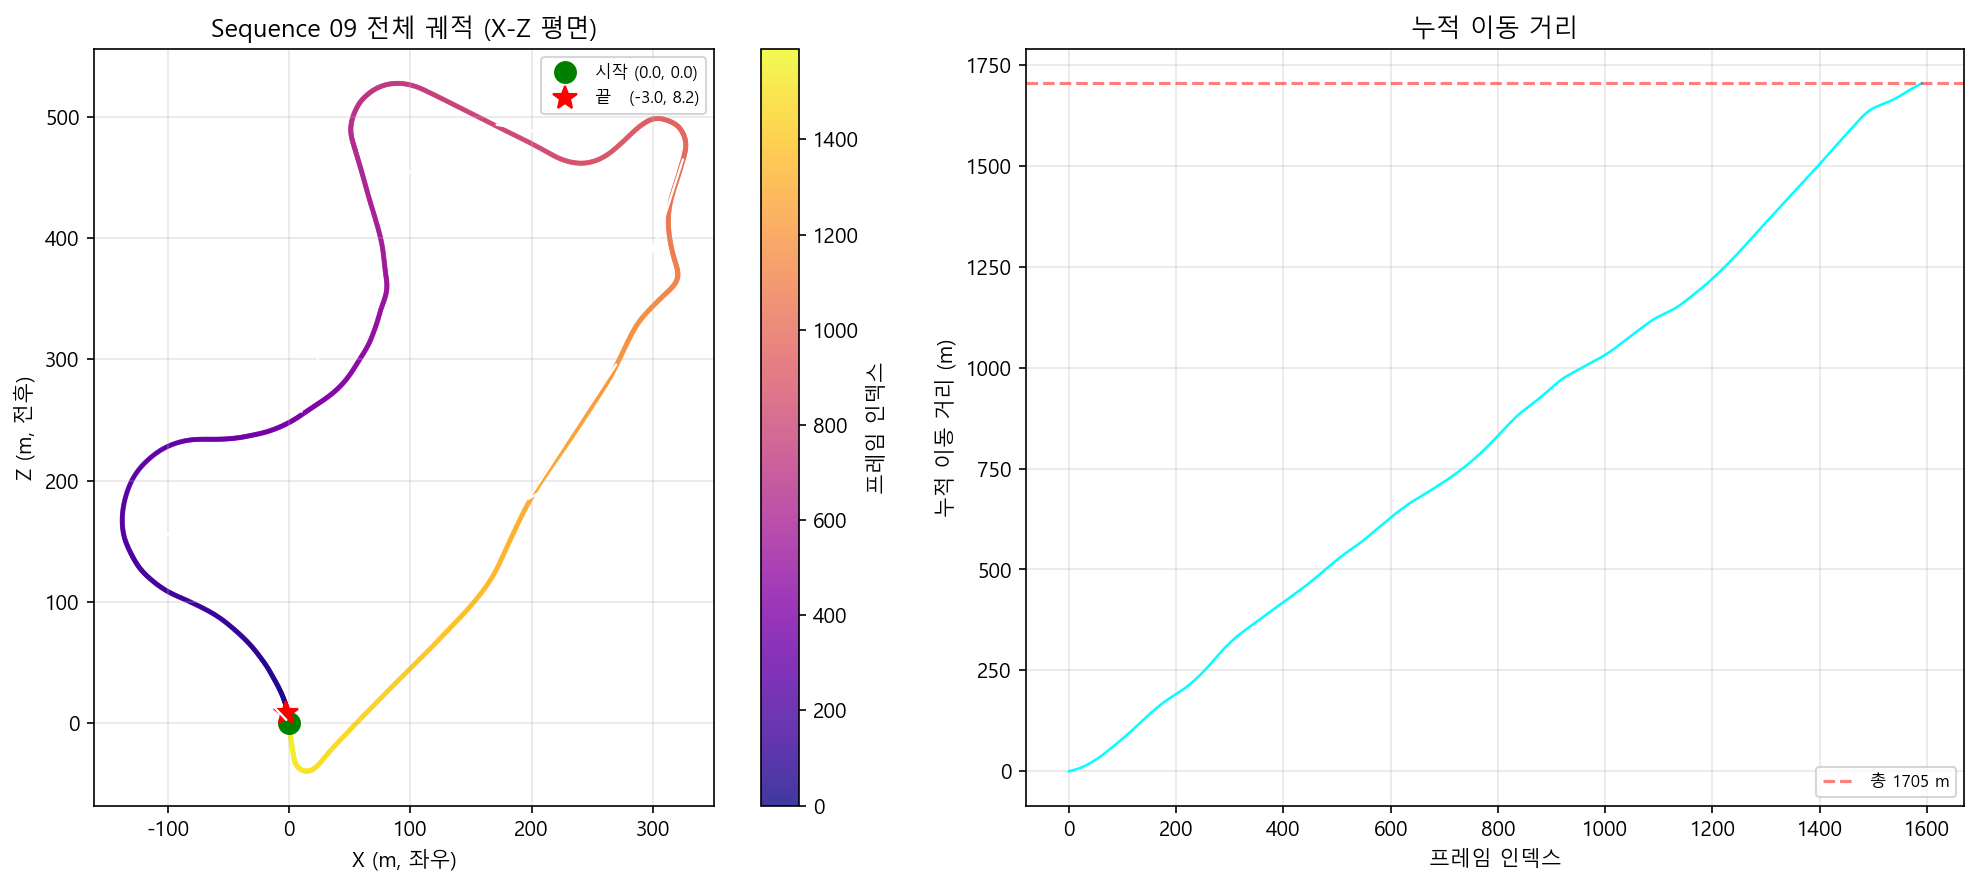
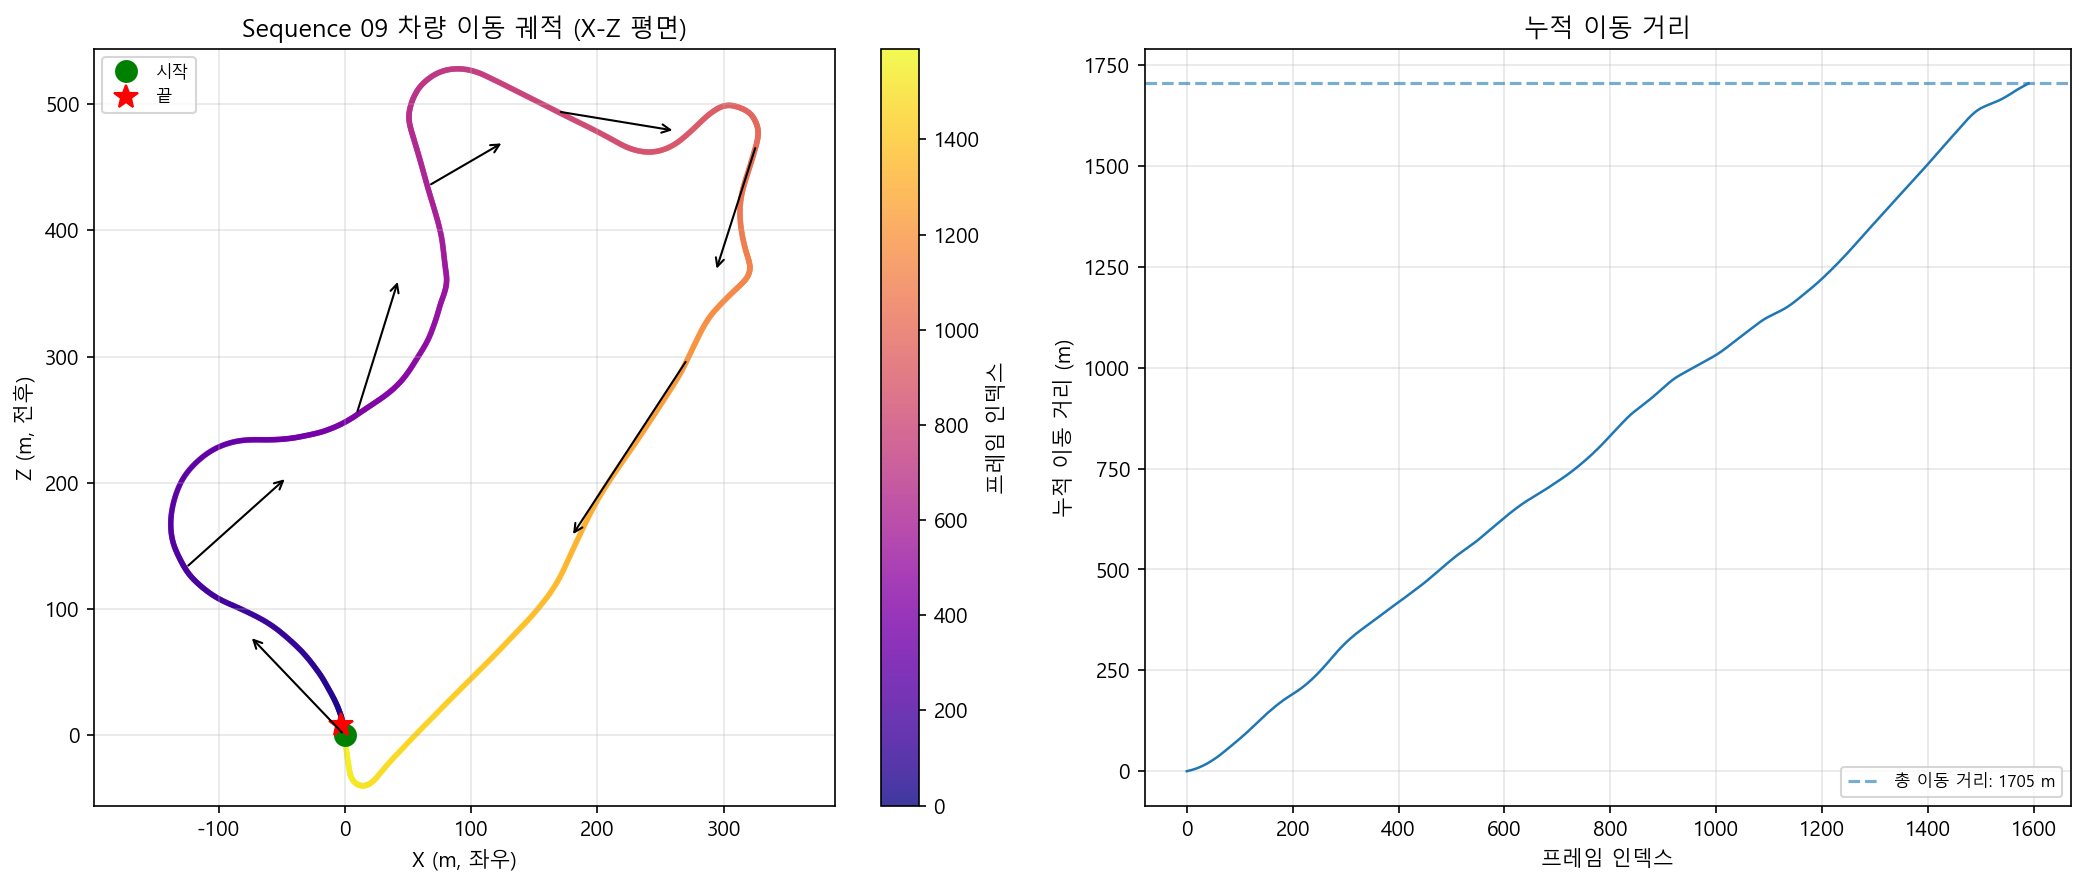
Update midterm assignment

diff --git a/README.md b/README.md
@@ -1,48 +1,3 @@
-# AutoMobile-Midterm
+# 2026-1 자율이동체 시스템 중간 과제
 
-자율이동체시스템 중간고사 대체 과제 (2026, 성신여자대학교)
-
-## 📋 과제 개요
-
-KITTI Odometry 데이터셋의 **Sequence 09**를 이용하여:
-1. Bayesian 기반 도로 영역 분류
-2. Projection Matrix 해석 및 활용
-3. 차량 궤적 시각화
-4. 차선 검출 및 실패 구간 분석
-5. 딥러닝 모델 비교
-
-## 📁 프로젝트 구조
-
-```
-AutoMobile-Midterm/
-├── auto_class_2_BayesianClassifier.ipynb   # 과제 제출 메인 노트북
-├── README.md
-├── .gitignore
-└── results/                                  # 분류 결과 (대표 샘플만 포함)
-    └── bayes_road_09/
-        ├── overlay_*.png
-        └── road_ratios.csv
-```
-
-> ⚠️ `dataset/` 폴더는 KITTI 데이터셋이며, 용량 문제로 git에 포함되지 않습니다.
-> KITTI Odometry 데이터셋(Sequence 09)을 별도로 다운로드하여 다음 위치에 배치해야 합니다:
-> - `dataset/sequences/09/image_0/`
-> - `dataset/sequences/09/calib.txt`
-> - `dataset/sequences/09/times.txt`
-> - `dataset/poses/09.txt`
-
-## 🛠️ 실행 환경
-
-- Python 3.10+
-- numpy, pandas, matplotlib, opencv-python, pillow, scikit-learn
-
-```bash
-pip install numpy pandas matplotlib opencv-python pillow scikit-learn jupyter
-```
-
-## 📚 참고 자료
-
-- 수업 자료: [yangjunahn/ClassAuto/auto_class_1_camera.ipynb](https://github.com/yangjunahn/ClassAuto/blob/main/auto_class_1_camera.ipynb)
-- 베이스 코드: [yangjunahn/ClassAuto/auto_class_2_BayesianClassifier.ipynb](https://github.com/yangjunahn/ClassAuto/blob/main/auto_class_2_BayesianClassifier.ipynb)
-- OpenCV calib3d: https://docs.opencv.org/4.x/d9/d0c/group__calib3d.html
-- KITTI Odometry: https://www.cvlibs.net/datasets/kitti/eval_odometry.php
[phone redacted] 김수민